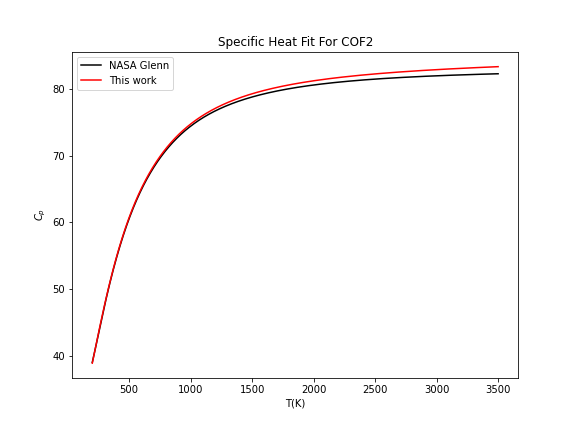
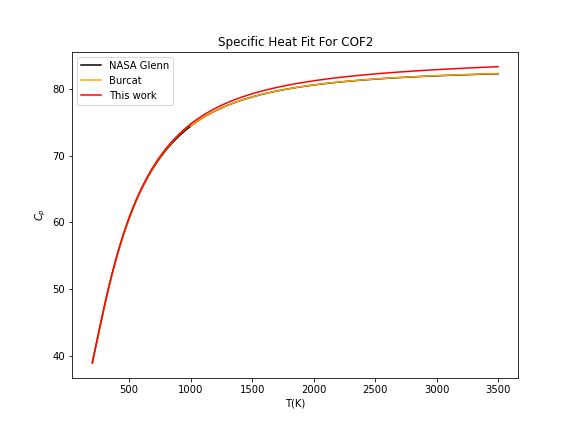
Add data from Burcat

diff --git a/Cp.py b/Cp.py
@@ -163,6 +163,22 @@ def get_Capitelli():
             coe_Capitelli[species]=coefficients_Ca
     return coe_Capitelli
 
+# Generate a dictionary storing the specific heat fit coefficients from Burcat
+def get_Burcat(): 
+    Burcat=np.loadtxt("Other_Cp/Burcat_fit.csv",delimiter=",",usecols=(3,4,5,6,7,8,9))
+    Burcat_specials=['CH3Br','CH3I','CH3OH','ClO','ClONO2','COF2','GeH4','H2O2','HBr','HNO3','HO2','HOBr','HOCl','NH3','PH3','OH']
+    coe_Burcat=dict()
+    for i in range(len(Burcat_specials)):
+        n=i*2
+        species=Burcat_specials[i]
+        coefficients_Burcat = np.zeros([2, 7])
+        for ii in range(2):
+            coefficients_Burcat[ii,]=Burcat[n]
+            n+=1
+        if species not in coe_Burcat:
+            coe_Burcat[species]=coefficients_Burcat
+    return coe_Burcat
+
 # Read and store the coefficients from original nasa glenn polynomials
 def get_nasa(Cp_dict):
 
@@ -267,7 +283,7 @@ def create_dict(diff_dict,species,sourcename,diff):
         diff_dict[species][sourcename]=diff
     return diff_dict    
 
-def compare_difference(di_J_dict, di_nasa_dict, di_Ca_dict, T_di_Furtenbacher, di_Furtenbacher_O2,T_di_SS_N, T_di_SS_P,Cp_dict,Tmax_this):
+def compare_difference(di_J_dict, di_nasa_dict, di_Ca_dict, T_di_Furtenbacher, T_di_Furtenbacher_O2,T_di_SS_N, T_di_SS_P,Cp_dict,Tmax_this):
     diff_dict=dict()
     for species in tqdm(Cp_dict):
         Tmax=Tmax_this[species]
@@ -305,10 +321,11 @@ def compare_difference(di_J_dict, di_nasa_dict, di_Ca_dict, T_di_Furtenbacher, d
     return diff_dict  
 
 # Using plots to compare the results with existing data
-def compare_and_plot_Cp(Cp_dict,Tmax_dict,Cp_JANAF,coe_Capitelli,coe_nasa,Tmax_this):
+def compare_and_plot_Cp(Cp_dict,Tmax_dict,Cp_JANAF,coe_Capitelli,coe_nasa,coe_Burcat,Tmax_this):
     di_J_dict=dict()
     di_nasa_dict=dict()
     di_Ca_dict=dict()
+    di_Burcat_dict=dict()
     for species in tqdm(Cp_dict):
         other_data=False
         cp_Temp=Cp_dict[species]
@@ -360,7 +377,28 @@ def compare_and_plot_Cp(Cp_dict,Tmax_dict,Cp_JANAF,coe_Capitelli,coe_nasa,Tmax_t
                 di_nasa_dict[species]=T_di_nasa
             plt.plot(x_nasa,Cp_fit_nasa,color="black",label="NASA Glenn") 
 
+        # plot specific heat using original nasa glenn polynomials
+        if species in coe_Burcat:
+            other_data=True
+            if Tmax<=1000:
+                x_Burcat=np.arange(Tmin, Tmax+1., 1.0)
+                coefficient_Burcat=coe_Burcat[species][0]
+                Cp_fit_Burcat=get_polynomial_results(coefficient_Burcat,x_Burcat)
+            else:
+                x_Burcat1=np.arange(Tmin, 1000, 1.0)
+                coefficient_Burcat1=coe_Burcat[species][0]
+                Cp_fit_Burcat1=get_polynomial_results(coefficient_Burcat1,x_Burcat1)
+                x_Burcat2=np.arange(1000, Tmax+1., 1.0)
+                coefficient_Burcat2=coe_Burcat[species][1]
+                Cp_fit_Burcat2=get_polynomial_results(coefficient_Burcat2,x_Burcat2)
+                x_Burcat=np.hstack((x_Burcat1,x_Burcat2))
+                Cp_fit_Burcat=np.hstack(( Cp_fit_Burcat1, Cp_fit_Burcat2))
 
+            T_Burcat_di,di_Burcat=get_difference(Cp_dict,x_Burcat,Cp_fit_Burcat,species)
+            T_di_Burcat=np.vstack((T_Burcat_di,di_Burcat))
+            if species not in di_Burcat_dict:
+                di_Burcat_dict[species]=T_di_Burcat
+            plt.plot(x_Burcat,Cp_fit_Burcat,color='orange',label="Burcat") 
 
         if species in coe_Capitelli:
             other_data=True
@@ -488,7 +526,7 @@ def compare_and_plot_Cp(Cp_dict,Tmax_dict,Cp_JANAF,coe_Capitelli,coe_nasa,Tmax_t
             # plt.savefig(storename)
             plt.show() 
 
-    return di_J_dict, di_nasa_dict, di_Ca_dict, T_di_Furtenbacher, T_di_Furtenbacher_O2,T_di_SS_N, T_di_SS_P
+    return di_J_dict, di_nasa_dict,di_Burcat_dict, di_Ca_dict, T_di_Furtenbacher, T_di_Furtenbacher_O2,T_di_SS_N, T_di_SS_P
 
 # Define the nasa polynomial format using for fitting
 def objective(x,a1,a2,a3,a4,a5,a6,a7):
@@ -659,13 +697,17 @@ if __name__ == '__main__':
     # Read the specific heat results from other sources
     Cp_JANAF=get_JANAF()
     coe_Capitelli=get_Capitelli()
+    coe_Burcat=get_Burcat()
     coe_nasa=get_nasa(Cp_dict)
     Tmax_this=get_Tmax_this(Tmax_hitran)
-    di_J_dict, di_nasa_dict, di_Ca_dict, T_di_Furtenbacher, T_di_Furtenbacher_O2, T_di_SS_N, T_di_SS_P=compare_and_plot_Cp(Cp_dict,Tmax_hitran,Cp_JANAF,coe_Capitelli,coe_nasa,Tmax_this)
+    di_J_dict, di_nasa_dict, di_Burcat_dict,di_Ca_dict, T_di_Furtenbacher, T_di_Furtenbacher_O2, T_di_SS_N, T_di_SS_P=compare_and_plot_Cp(Cp_dict,Tmax_hitran,Cp_JANAF,coe_Capitelli,coe_nasa,coe_Burcat,Tmax_this)
     # diff_dict=compare_difference(di_J_dict, di_nasa_dict, di_Ca_dict, T_di_Furtenbacher, T_di_Furtenbacher_O2,T_di_SS_N, T_di_SS_P,Cp_dict,Tmax_this)
     # fit_dictionary=get_coefficients(Cp_dict,Tmax_this)
     # # store_coefficients(Tmax_this,fit_dictionary)
     # residual_dict=calculate_and_plot_residuals(Tmax_this,Cp_dict,fit_dictionary)
 
 #%%
+coe_Burcat.keys()
+# %%
+coe_Burcat['GeH4']
 # %%
